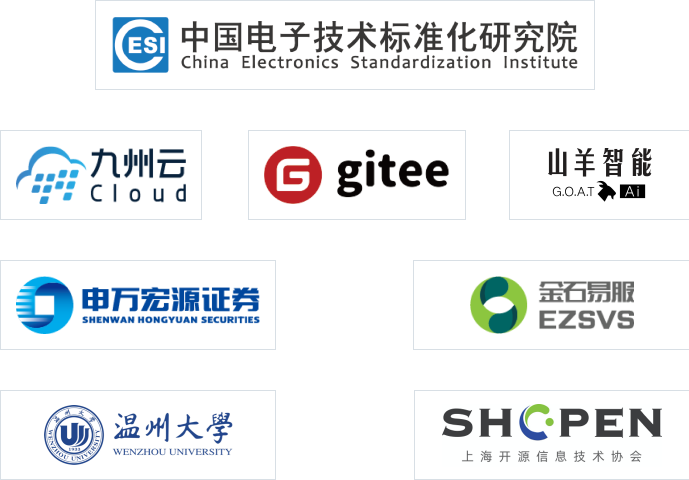
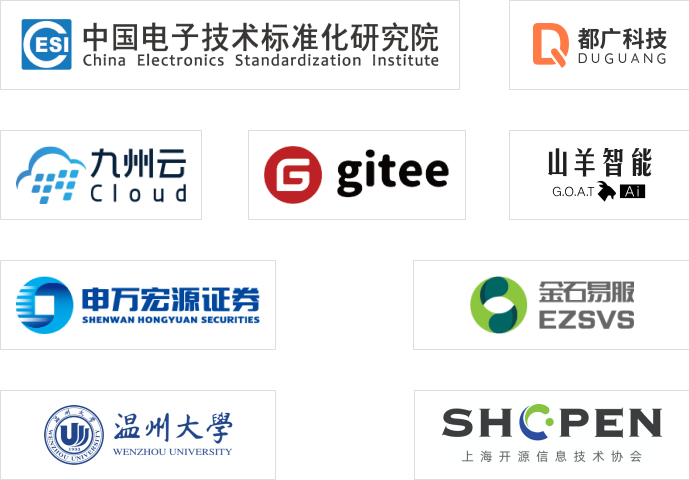
fix: 新增合作伙伴都广科技

Changed region(s): [[0.0305, 0.0312, 0.9753, 0.1562], [0.0, 0.1562, 0.0305, 0.1875], [0.0, 0.0, 0.0305, 0.0312]]

diff --git a/src/views/web/content/part-eight.vue b/src/views/web/content/part-eight.vue
@@ -19,7 +19,7 @@
   .cooperator {
     margin: 0 auto;
     background-image: url("@/assets/web/pngs/cooperation.png");
-    width: 907px;
+    width: 1052px;
     height: 427px;
     background-size: contain;
     background-position: center center;
